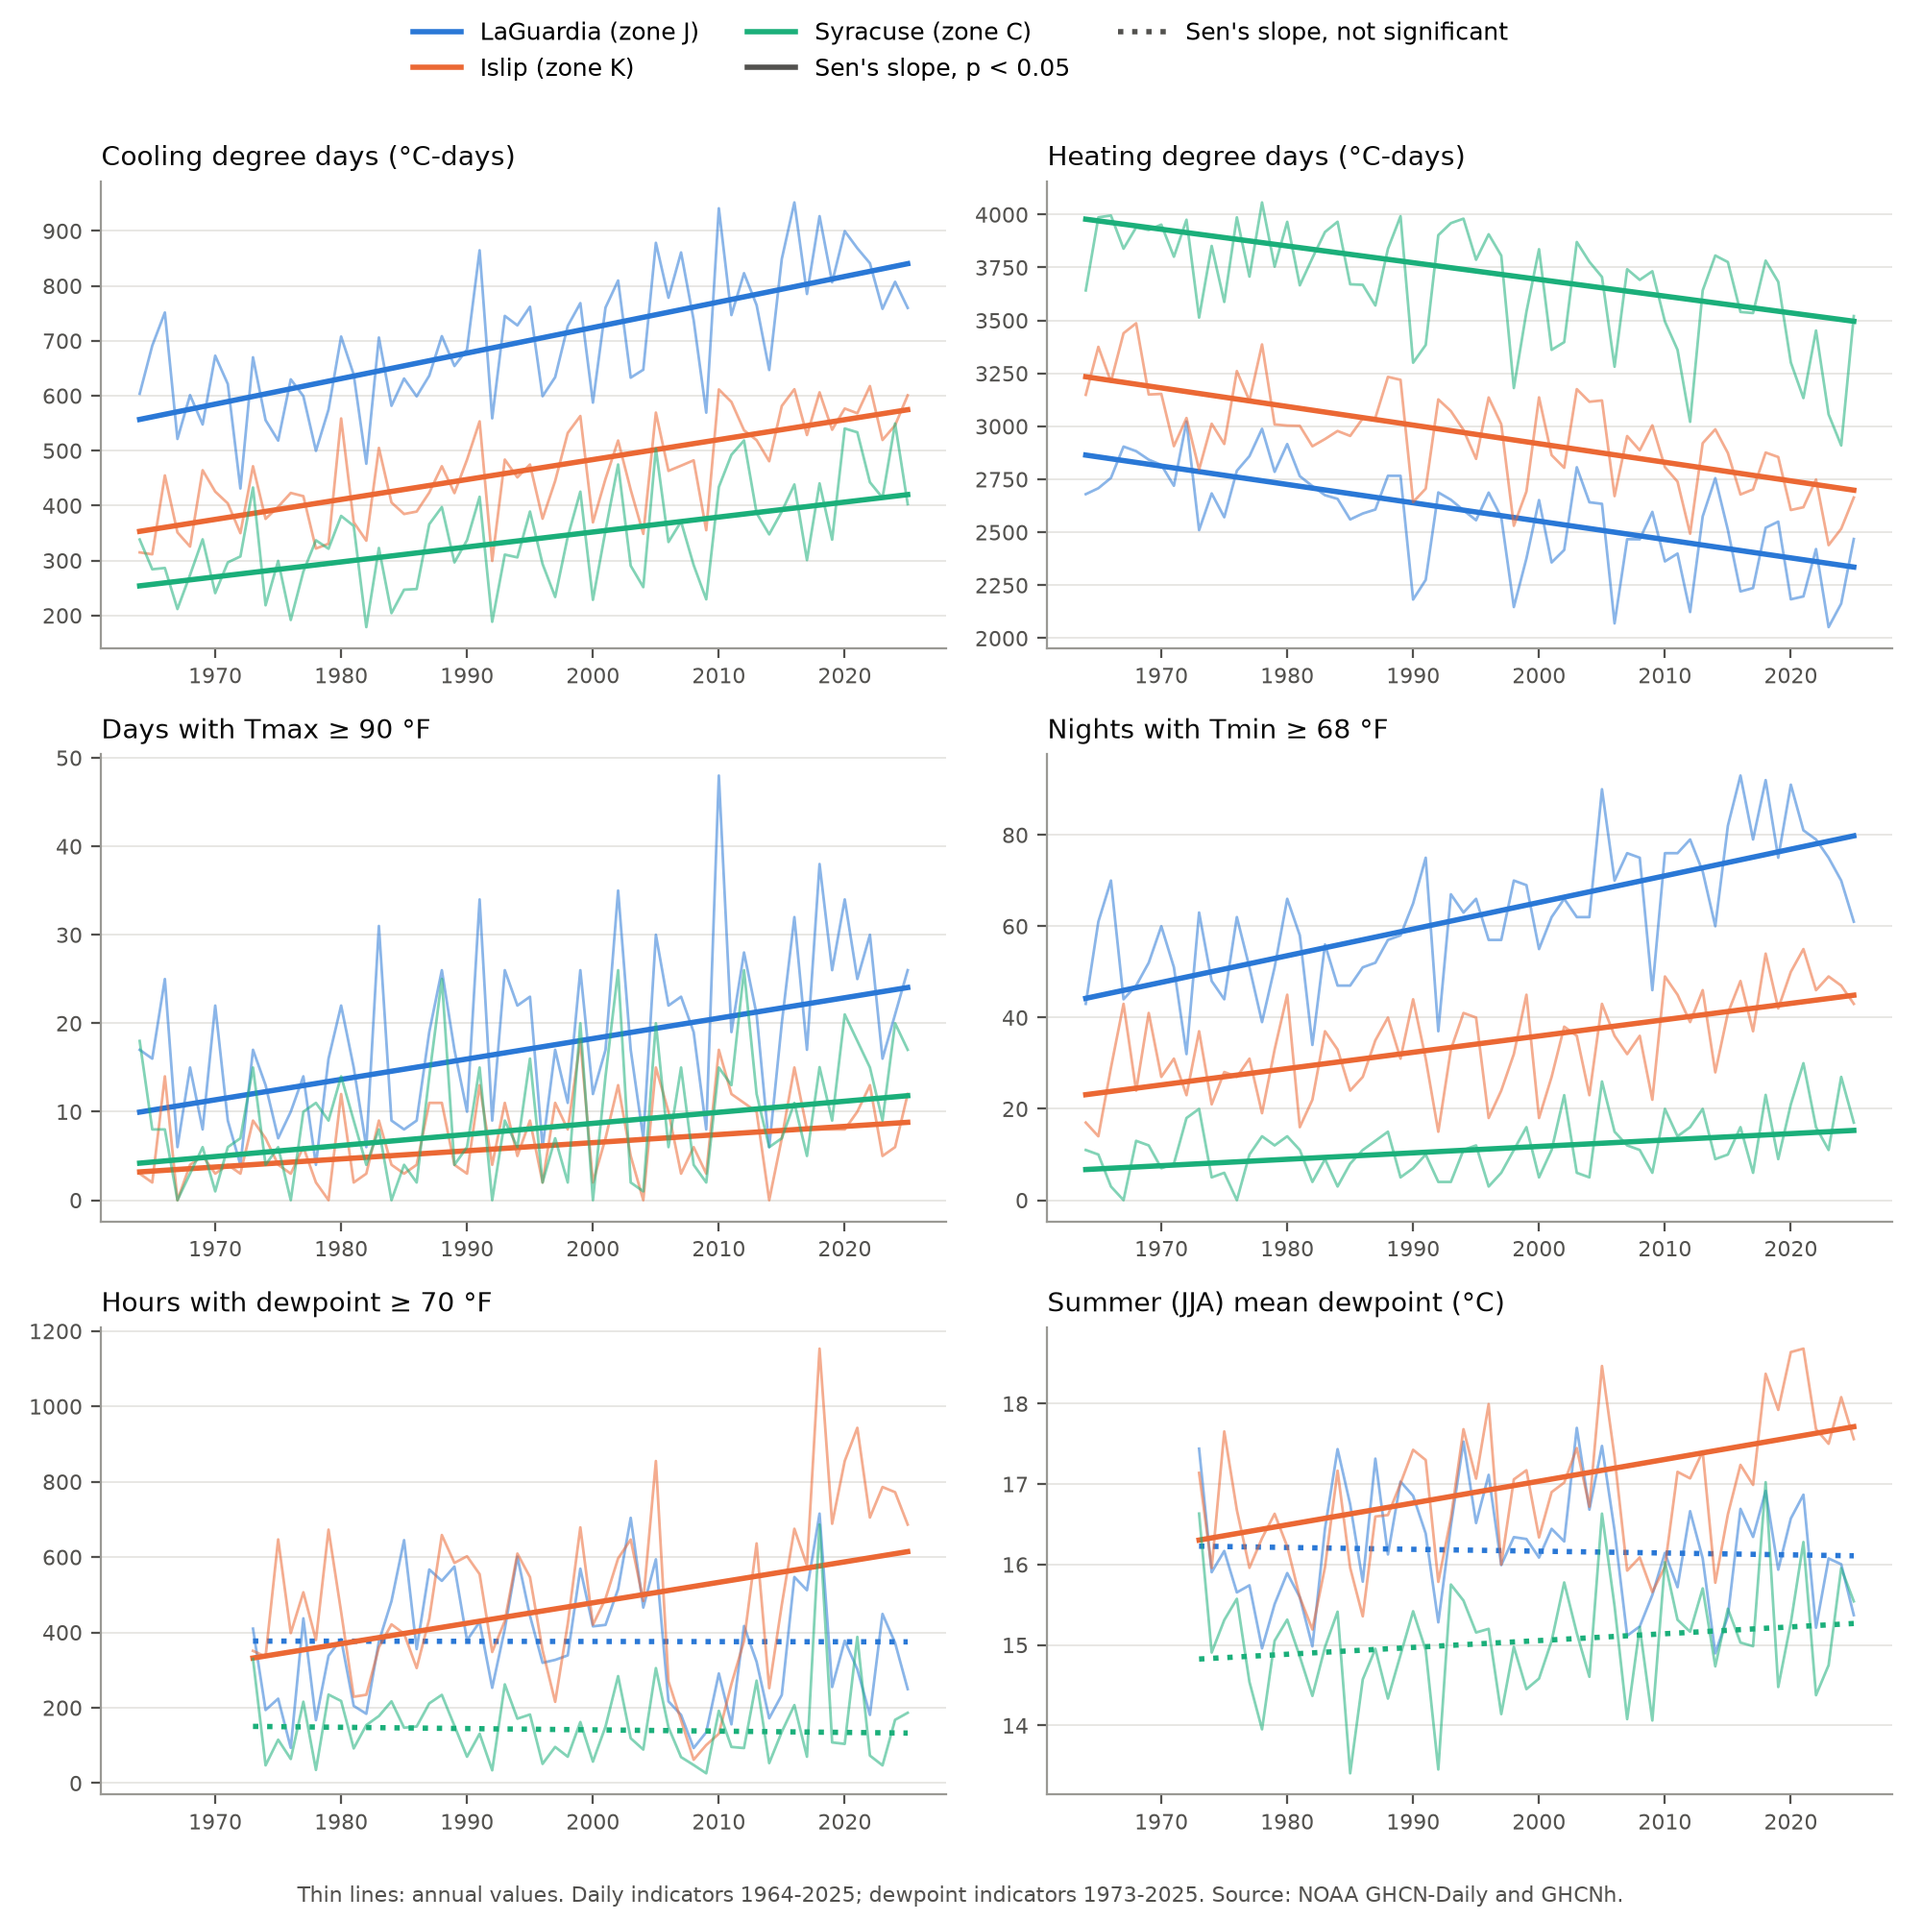
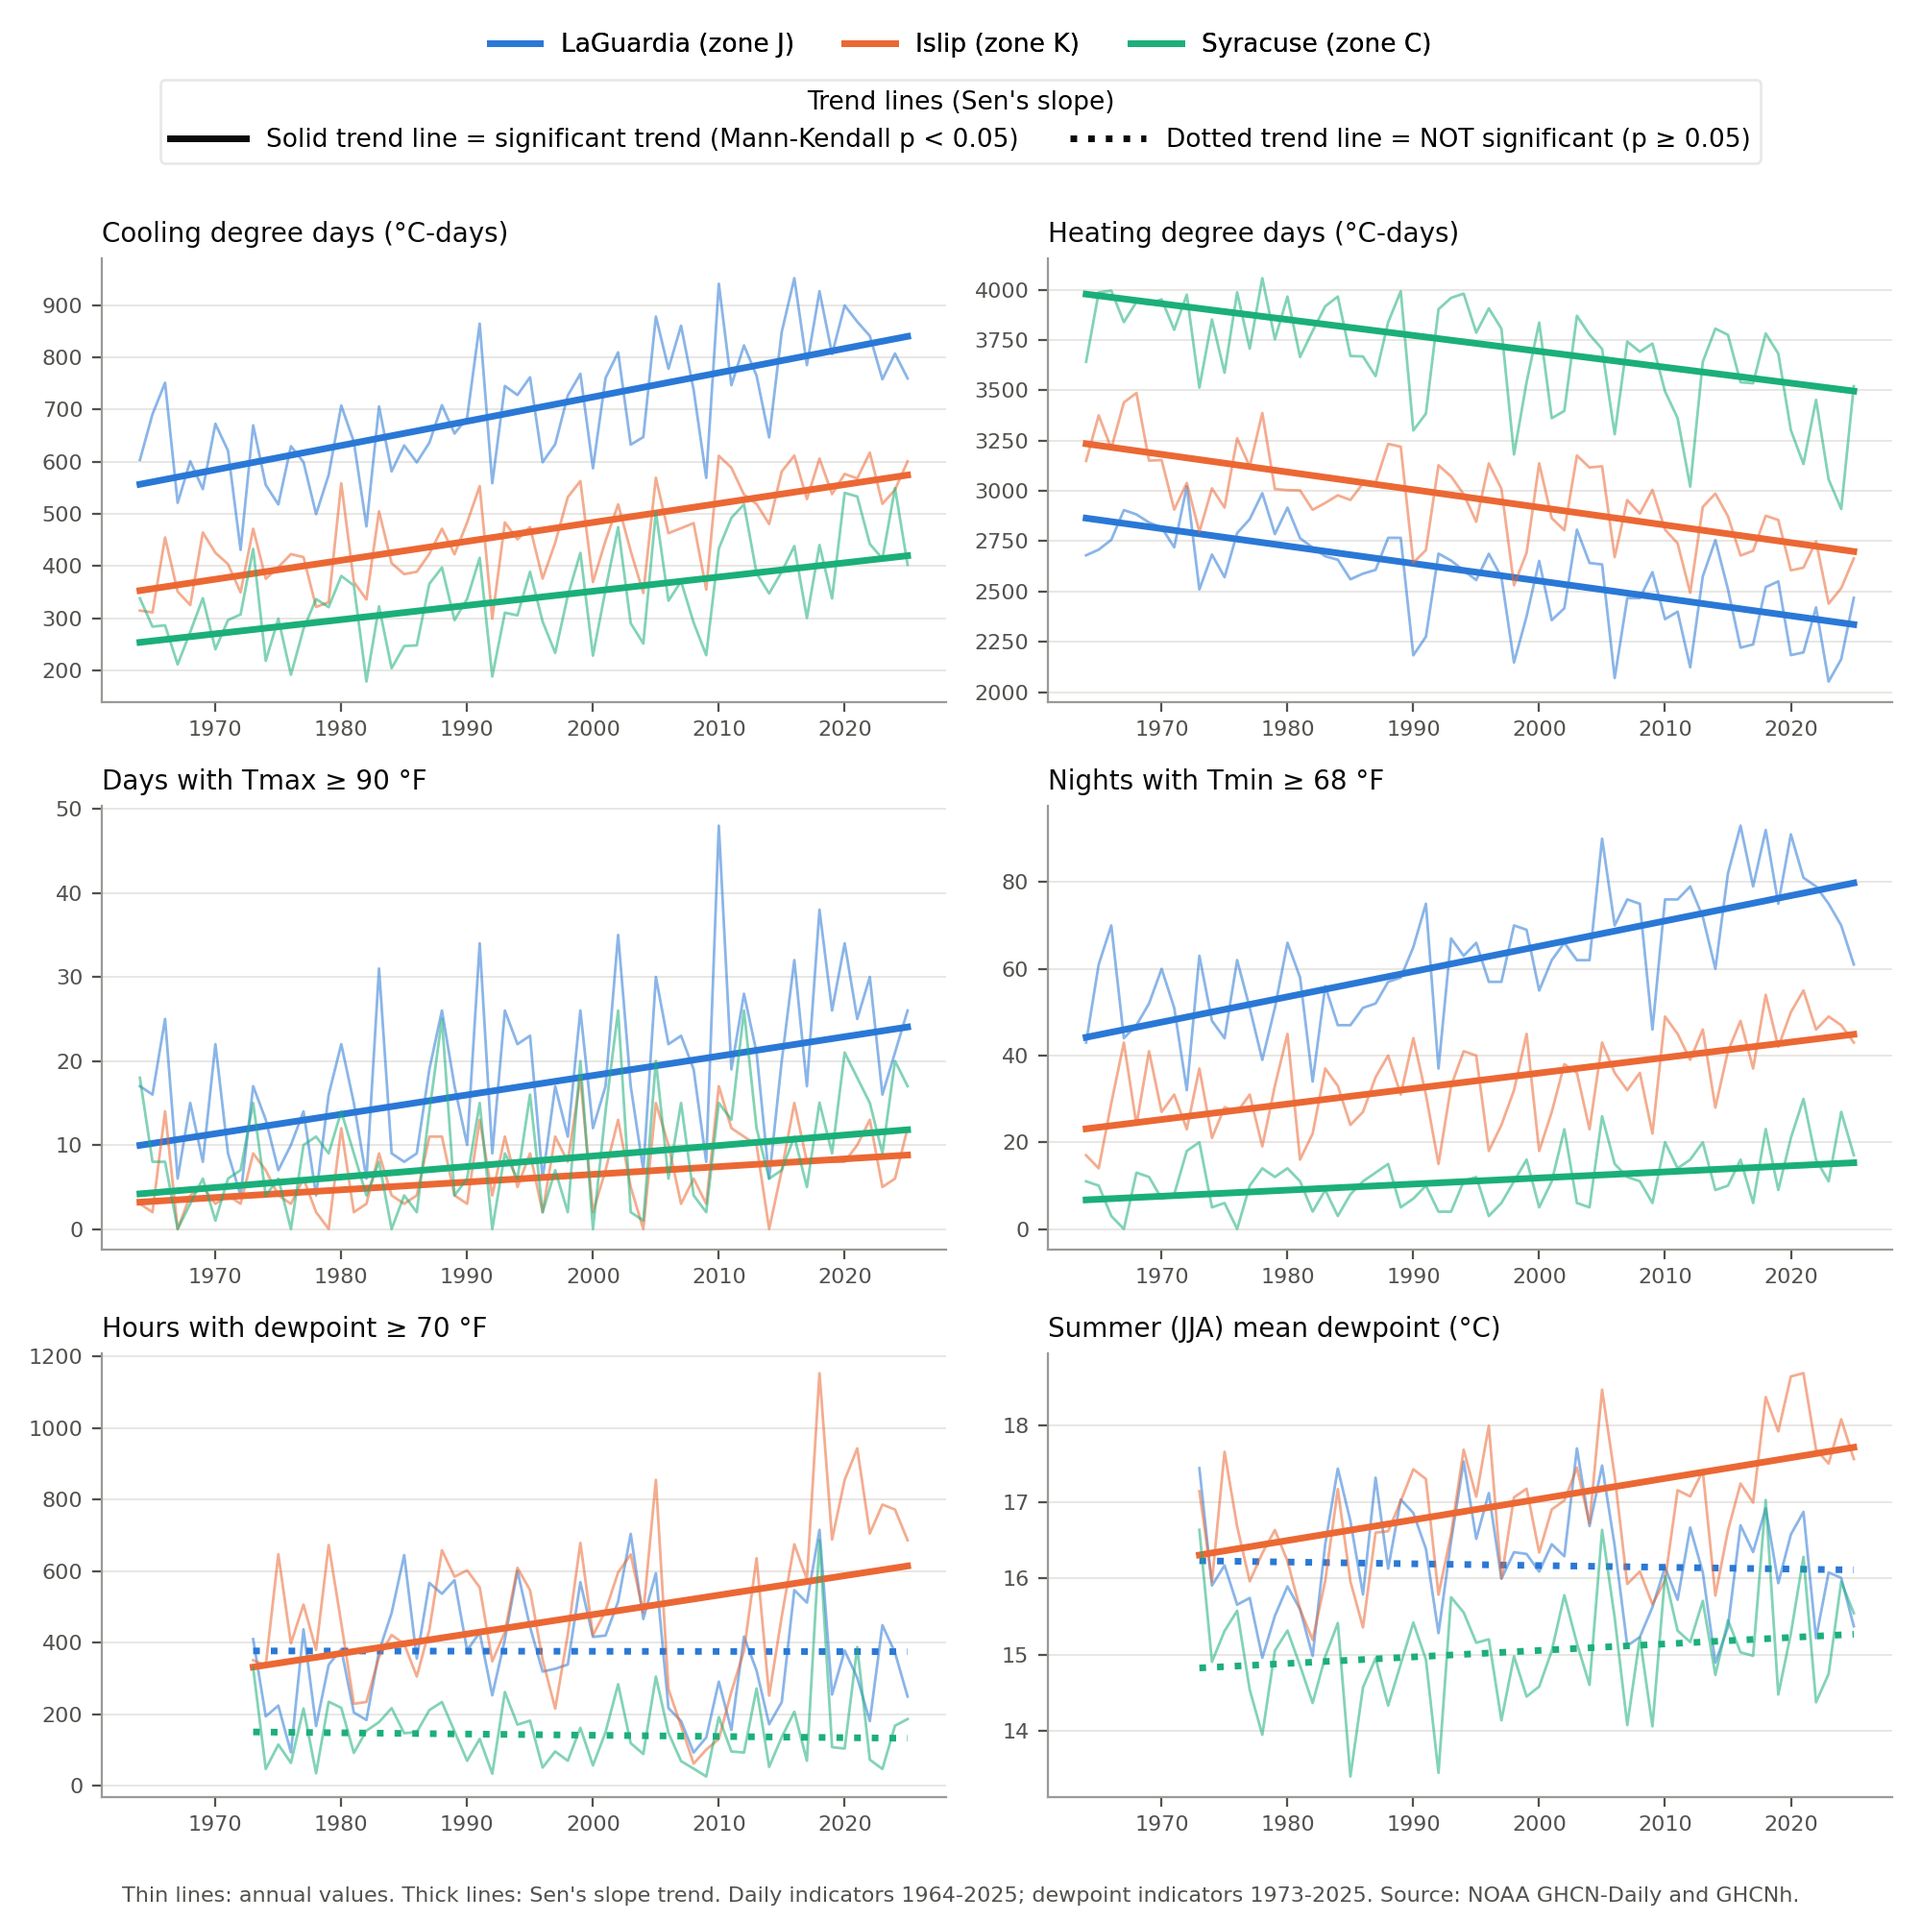
Clarify significance legend in climate trends figure

diff --git a/scripts/climate_trends.py b/scripts/climate_trends.py
@@ -164,7 +164,7 @@ def make_figure(annual: pd.DataFrame, trends: pd.DataFrame, out: Path) -> None:
                 xm, ym = np.median(s.index), np.median(s.values)
                 xs = np.array([s.index.min(), s.index.max()])
                 ys = ym + t["sen_slope_per_decade"] / 10 * (xs - xm)
-                ax.plot(xs, ys, color=color, lw=2, ls="-" if t["mk_p"] < 0.05 else ":")
+                ax.plot(xs, ys, color=color, lw=2.5, ls="-" if t["mk_p"] < 0.05 else ":")
         ax.set_title(LABELS[metric], fontsize=10, loc="left", color="#0b0b0b")
         ax.grid(axis="y", color="#e4e3df", lw=0.6)
         for side in ("top", "right"):
@@ -174,14 +174,23 @@ def make_figure(annual: pd.DataFrame, trends: pd.DataFrame, out: Path) -> None:
         ax.tick_params(colors="#52514e", labelsize=8)
         ax.tick_params(labelbottom=True)   # show years on every panel
         ax.set_xticks(range(1970, 2030, 10))
-    handles = [plt.Line2D([], [], color=c, lw=2, label=f"{STATIONS[s][0]} (zone {STATIONS[s][1]})")
-               for s, c in FIG_STATIONS]
-    handles += [plt.Line2D([], [], color="#52514e", lw=2, ls="-", label="Sen's slope, p < 0.05"),
-                plt.Line2D([], [], color="#52514e", lw=2, ls=":", label="Sen's slope, not significant")]
-    fig.legend(handles=handles, loc="upper center", ncol=3, frameon=False, fontsize=9)
-    fig.text(0.5, 0.01, "Thin lines: annual values. Daily indicators 1964-2025; dewpoint indicators 1973-2025. "
-             "Source: NOAA GHCN-Daily and GHCNh.", ha="center", fontsize=8, color="#52514e")
-    fig.tight_layout(rect=(0, 0.03, 1, 0.94))
+    # Two legends: station colors on the first row, trend-line meaning on the second.
+    station_handles = [plt.Line2D([], [], color=c, lw=2.5, label=f"{STATIONS[s][0]} (zone {STATIONS[s][1]})")
+                       for s, c in FIG_STATIONS]
+    style_handles = [plt.Line2D([], [], color="#0b0b0b", lw=2.5, ls="-",
+                                label="Solid trend line = significant trend (Mann-Kendall p < 0.05)"),
+                     plt.Line2D([], [], color="#0b0b0b", lw=2.5, ls=":",
+                                label="Dotted trend line = NOT significant (p \u2265 0.05)")]
+    leg1 = fig.legend(handles=station_handles, loc="upper center", bbox_to_anchor=(0.5, 0.995),
+                      ncol=3, frameon=False, fontsize=9.5)
+    fig.add_artist(leg1)
+    fig.legend(handles=style_handles, loc="upper center", bbox_to_anchor=(0.5, 0.965), ncol=2,
+               frameon=True, edgecolor="#e4e3df", fontsize=9.5, handlelength=3,
+               title="Trend lines (Sen's slope)", title_fontsize=9.5)
+    fig.text(0.5, 0.01, "Thin lines: annual values. Thick lines: Sen's slope trend. Daily indicators 1964-2025; "
+             "dewpoint indicators 1973-2025. Source: NOAA GHCN-Daily and GHCNh.",
+             ha="center", fontsize=8, color="#52514e")
+    fig.tight_layout(rect=(0, 0.03, 1, 0.90))
     fig.savefig(out, dpi=200, facecolor="white")
     plt.close(fig)
 
